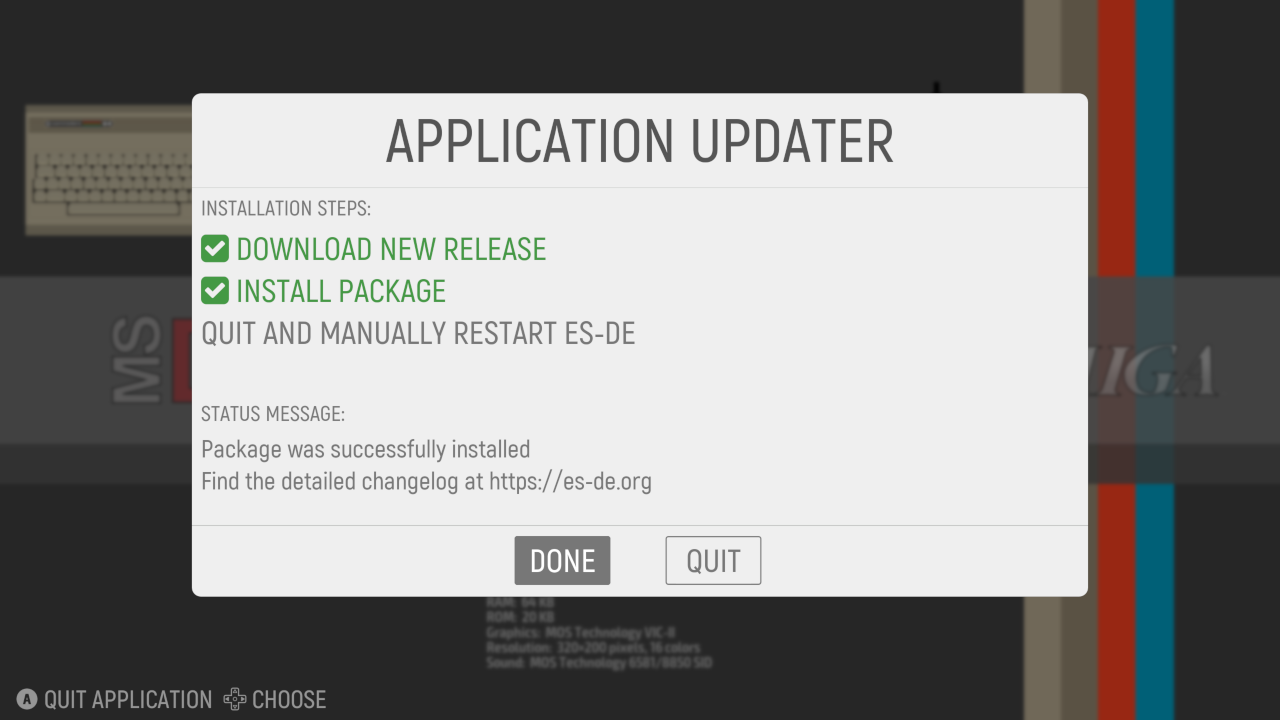
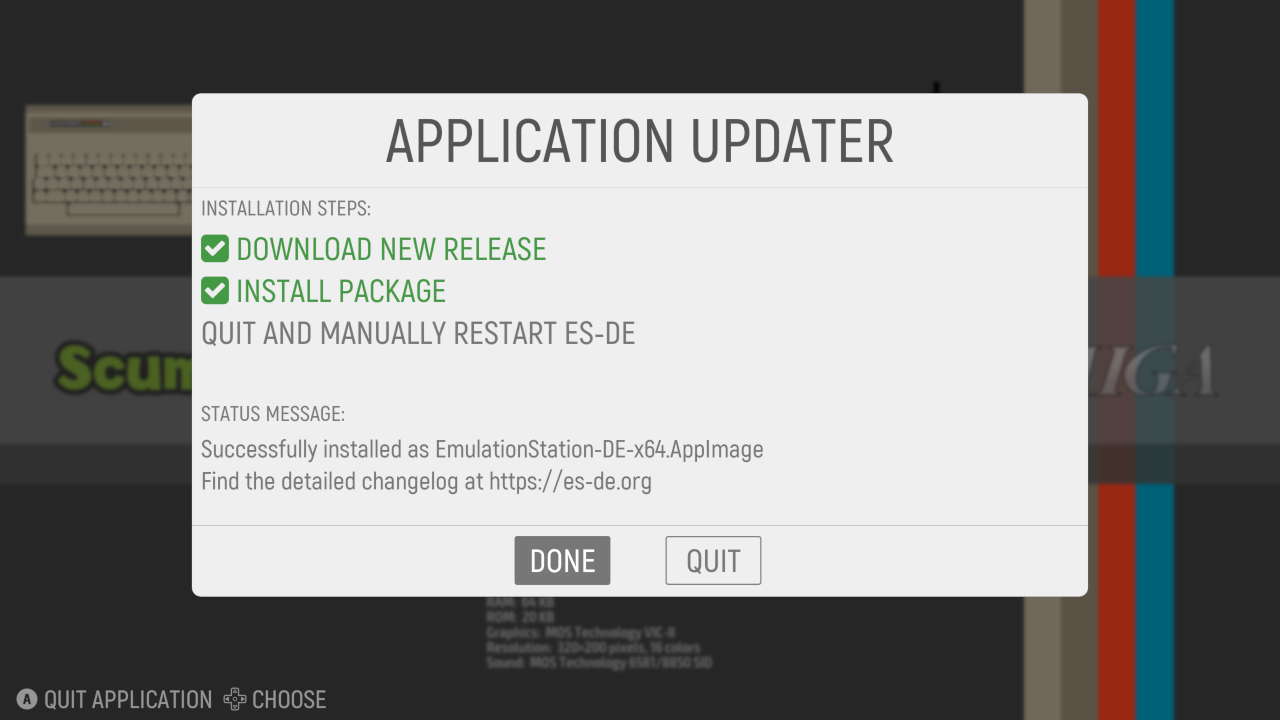
Documentation update

Changed region(s): [[0.1562, 0.6111, 0.5938, 0.6417], [0.0312, 0.4278, 0.1562, 0.55]]

diff --git a/CHANGELOG.md b/CHANGELOG.md
@@ -4,27 +4,35 @@
 
 **Release date:** TBD
 
+### Release overview
+
+The 2.1 release brings a new look to ES-DE by changing the default menu color scheme from light to dark. There is however a setting to revert to the light color scheme if that's preferred. Scraping and viewing of PDF game manuals has also been added, with the PDF viewer being reachable from the gamelist media viewer.
+
+Miximages will now be generated with a proper image fit if the screenshot aspect ratio doesn't match the miximage frame. This will for instance occur for widescreen systems and vertically oriented arcade shooters. There are multiple new options to control this behavior in the miximage settings menu. System sorting has also been improved, making it possible to use a separate es_systems_sorting.xml file in the custom_systems directory, meaning it's no longer required to add systemsortname tags to the es_systems.xml file.
+
+For the Linux AppImage releases a built-in application updater has been added so that future versions can be installed automatically. Apart from all these changes many smaller improvements have been made and a couple of new systems have been added.
+
 ### Detailed list of changes
 
+* Added support for changing between dark and light color schemes for the menu system (with dark being the new default)
 * Added a PDF game manual viewer, accessible from the media viewer
 * Added an option to scrape game manuals using ScreenScraper
-* Added a game manual badge to indicate whether a game has a downloaded PDF manual
-* Added a separate es-pdf-convert binary to render PDF pages using Poppler (needed due to the restrictive GPL license for this library)
 * Added an application updater which downloads and installs ES-DE updates (currently only the AppImage releases are supported)
-* Added help prompts to the media viewer
-* Added trigger button support to the media viewer for jumping to the first and last entries
-* Added trigger button support to the theme downloader screenshot viewer for jumping to the first and last entries
 * Added options to the miximage generator for how to fit screenshots that do not match the aspect ratio of the miximage frame
-* Added support for changing between light and dark color schemes for the menu system
-* Added a per-system game count to the multi-scraper in addition to the total game count
-* Changed the scraper auto-retry functionality to never run on non-recoverable errors such as insufficient file permissions
-* Added options to the video and slideshow screensavers to only include favorite games
 * Added support for a dedicated es_systems_sorting.xml file to change systems sorting without having to modify es_systems.xml
 * Bundled four complete es_systems_sorting.xml files with the application (they can be found in the resources/sorting/ directory)
 * Placing an es_find_rules.xml file in custom_systems will now complement rather than override the bundled file
+* Added help prompts to the media viewer
+* Added trigger button support to the media viewer for jumping to the first and last entries
+* Added trigger button support to the theme downloader screenshot viewer for jumping to the first and last entries
+* Added a game manual badge to indicate whether a game has a downloaded PDF manual
+* Added options to the video and slideshow screensavers to only include favorite games
+* Added a per-system game count to the multi-scraper
+* Changed the scraper auto-retry functionality to never run on non-recoverable errors such as insufficient file permissions
 * Added support for the LowRes NX Fantasy Console (lowresnx) game system
 * Added support for the Epoch Super Cassette Vision (scv) game system
 * Added the SameBoy RetroArch core as an alternative emulator for the sgb system
+* Added an sgb (Nintendo Super Game Boy) platform to improve scraping when using ScreenScraper
 * Added MAME standalone as an alternative emulator for the amstradcpc, cdimono1 and x68000 systems
 * Added ares standalone as an alternative emulator for the n64dd system
 * Added ares [Benesse Pocket Challenge V2] standalone as an alternative emulator for the wonderswan system
@@ -34,23 +42,23 @@
 * (Linux) Added support for the official Citra AppImage release
 * (Windows) Added pcsx2-qt.exe as the primary executable name for the PCSX2 emulator
 * Added support for scraping the arduboy and ps4 systems using ScreenScraper
-* Added an sgb (Nintendo Super Game Boy) platform to improve scraping using ScreenScraper
+* Improved resilience to buggy controller drivers which could previously crash the application (mostly relevant for macOS)
 * Removed the experimental status for the theme downloader
 * Simplified ApplicationUpdater by only using the release number when checking for updates
 * Added more error checking to ApplicationUpdater by checking for blank name, filename, url and md5 keys in latest_release.json
-* Improved resilience to buggy controller drivers which could previously crash the application (mostly relevant for macOS)
-* Removed the custom SDL patch for the Linux AppImage builds that prevented the device virtual keyboard from being automatically displayed
-* If the SDL library release is 2.28.0 or higher, then the automatic popup of the device's virtual keyboard is now disabled
+* Removed the custom SDL patch for the AppImage builds that prevented the device's virtual keyboard from being automatically displayed
+* If the SDL library release is 2.28.0 or higher then the automatic popup of the device's virtual keyboard is now disabled
 * The SDL library version is now printed to es_log.txt on application startup
+* Added a separate es-pdf-convert binary to render PDF pages using Poppler (needed due to the restrictive GPL license for this library)
 * (Windows) A check is now performed on startup that OpenGL is actually supported by the GPU driver, to avoid crashes if it isn't
 * Added a setRawImage function to ImageComponent to load raw pixel data into textures (needed by PDFViewer)
 * Added the Poppler PDF rendering library as a dependency
 * Removed the unused graphics files resources/graphics/cartridge.svg and resources/graphics/folder.svg
 * Modified the resources/graphics/help/dpad_all.svg file to actually show all directions as available
 * Updated FFmpeg to 6.0, FreeType to 2.13.0, libgit2 to 1.6.4 and pugixml to 1.13 on Windows and macOS
-* Updated SDL to 2.28.0 on Windows, macOS and the Linux AppImage builds
+* Updated SDL to 2.28.1 on Windows, macOS and the Linux AppImage builds
 * (Windows) Updated curl to 8.1.2
-* (Windows) Changed all dependencies to not include version numbers in their directory names to simplify future updates
+* (Windows) Changed all dependencies to not include version numbers in their directory names to simplify future library updates
 * Updated LunaSVG to commit f924651b85cac47dbe15f51a4aa320461fc1d07b to fix a GCC 13 build error
 * Updated the MAME index files to include ROMs up to MAME version 0.256
 * Bundled the May 2023 release of the Mozilla TLS/SSL certificates

diff --git a/FAQ.md b/FAQ.md
@@ -102,7 +102,7 @@ ES-DE uses mostly the same system names as these other frontends, but there are 
 
 ## Can ES-DE update itself automatically when a new release becomes available?
 
-ES-DE includes a check for new versions and will show a notification window on startup if there is a new release available for download. As a second step downloading of the new version will be implemented and on some platforms automatic updating will be added as well. It's however unlikely that automatic upgrading will be feasible for all package formats. The process to manually upgrade ES-DE is covered in the _Upgrading to a newer release_ section of the [User guide](USERGUIDE.md#upgrading-to-a-newer-release). If you find the update notification messages annoying you can change the frequency of update checks between _Always_, _Daily_, _Weekly_, _Monthly_ or _Never_ from the _Other settings_ menu.
+As of ES-DE 2.1.0 there is a built-in application updater that works with the Linux AppImage releases. And if using the AUR release then updates are handled via the operating system's package manager. Likewise if using RetroDECK, then ES-DE is updated as part of the overall RetroDECK Flatpak. For other package formats and operating systems only a version check and a notification window has been implemented, meaning the new release needs to be manually downloaded from the ES-DE website. The process to manually upgrade ES-DE is covered in the _Upgrading to a newer release_ section of the [User guide](USERGUIDE.md#upgrading-to-a-newer-release). If you find the update notification messages annoying you can change the frequency of update checks between _Always_, _Daily_, _Weekly_, _Monthly_ or _Never_ from the _Other settings_ menu.
 
 ## I can't find any game media links in the gamelist.xml files, where is this data stored?
 

diff --git a/USERGUIDE-DEV.md b/USERGUIDE-DEV.md
@@ -2427,6 +2427,10 @@ Settings for the media viewer that is accessible from the gamelist views.
 
 Controls positioning of the navigation help prompts. The available options are _top_, _bottom_ or _disabled_.
 
+**Display media types**
+
+Whether the help prompts should include the media type of the currently viewed entry.
+
 **Keep videos running when viewing images**
 
 With this option enabled, the video will continue to run when viewing the images for the game. If disabling this setting, the video will stop immediately when browsing to the first image, and it will restart when navigating back to the video.
@@ -2961,7 +2965,7 @@ If a game video is available, then this will be played automatically when launch
 
 The following media can be displayed: _video, box cover, box back cover, title screen, screenshot_, _fan art_ and _miximage_.
 
-If the game has a downloaded PDF manual then you can view it by pressing the _up_ button which will change the media viewer to PDF viewing mode. To get back to displaying videos and images when in this mode, press the _down_ button. The navigation for this mode is identical to the game media mode.
+If the game has a downloaded PDF manual then you can view it by pressing the _up_ button which will change the media viewer to PDF viewing mode. To get back to displaying videos and images when in this mode, press the _down_ button. When in PDF viewing mode it's possible to zoom in and out using the shoulder buttons. When zoomed in, the left, right, up and down buttons will pan the view. So in order to re-enable page navigation either zoom out completely or reset the view by pressing the left or right trigger button.
 
 Pressing any other button than those mentioned above closes the media viewer.
 

diff --git a/ROADMAP.md b/ROADMAP.md
@@ -5,7 +5,6 @@ ES-DE is developed using an agile methodology so which features to include per r
 A more detailed breakdown can be found on the [Kanban](https://gitlab.com/es-de/emulationstation-de/-/boards) board, and for previous releases the [Changelog](CHANGELOG.md) contains all relevant details.
 
 **General functionality**
-* Game manual viewer (PDF documents)
 * RetroAchievements.org integration
 * "Time played" counter per game, similar to how it works in Steam
 * Bulk metadata editor
@@ -18,7 +17,6 @@ A more detailed breakdown can be found on the [Kanban](https://gitlab.com/es-de/
 
 **User interface**
 
-* Selection between light and dark color schemes for the menu system
 * Menu reorganization, possibly adding basic/advanced modes
 * Animated menu elements like switches and tick boxes
 * Simple file browsing component
@@ -30,7 +28,6 @@ A more detailed breakdown can be found on the [Kanban](https://gitlab.com/es-de/
 * Removal of legacy theme support
 
 **Scraper**
-* Scraping of game manuals
 * Checksum support for the scraper for exact searches and for determining when to overwrite files
 * Support for additional scraper services
 

diff --git a/INSTALL-DEV.md b/INSTALL-DEV.md
@@ -1499,8 +1499,6 @@ These files include all systems supported by ES-DE and provide the following sor
 * Manufacturer, release year
 * Release year
 
-To use these es_systems_sorting.xml files, simply copy any of them to your custom_systems directory.
-
 ## es_find_rules.xml
 
 This file makes it possible to define rules for where to search for the emulator binaries and emulator cores.
